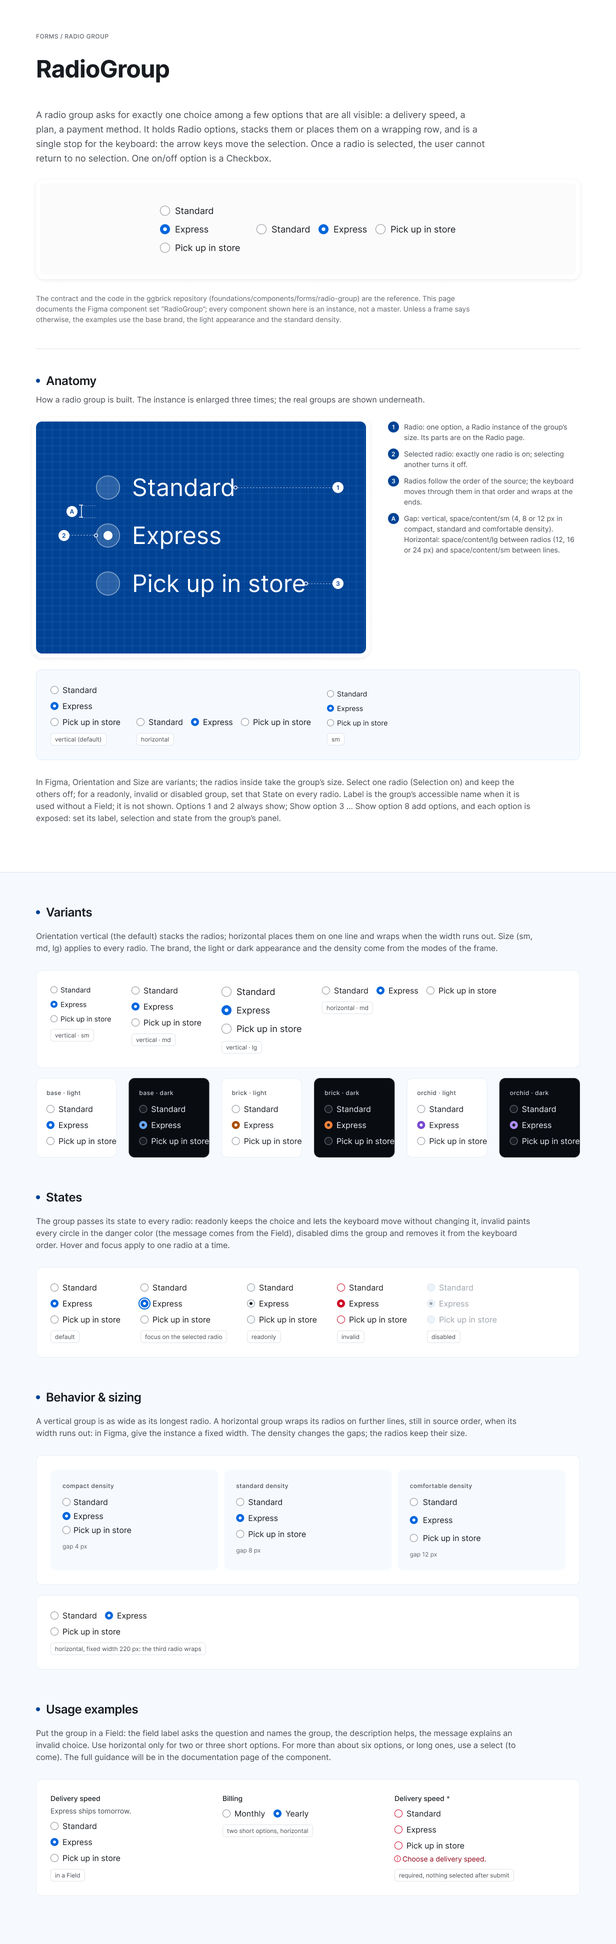
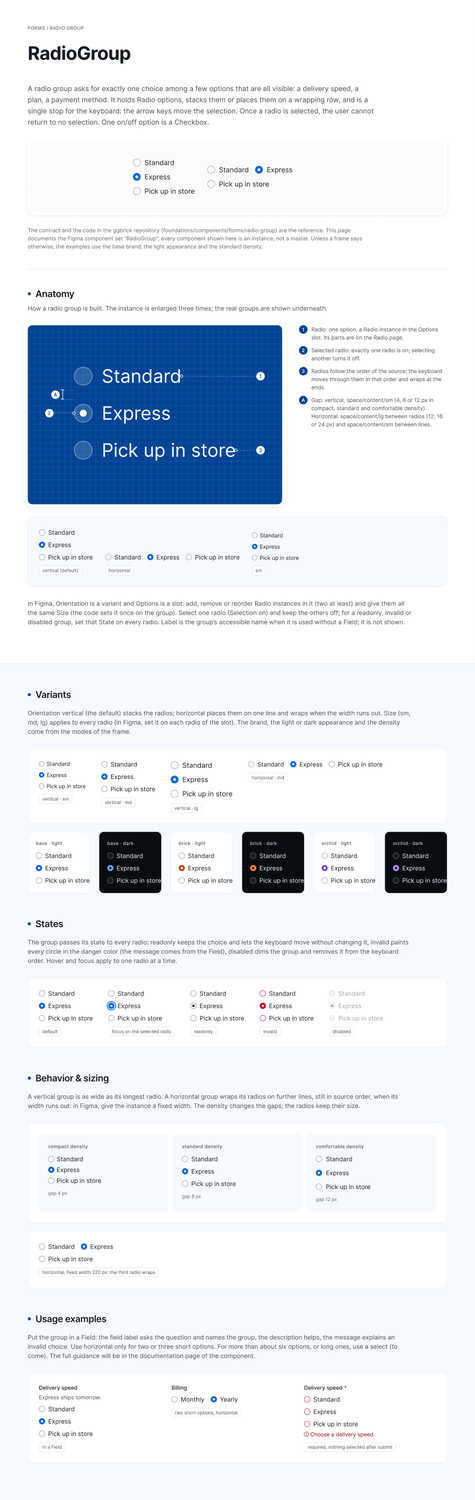
Figma: RadioGroup options in a slot
The eight hidden options were not approved. Each variant now holds an
Options slot (one SLOT property, two radios at least, Radio only) that
carries the layout and gap bindings; Size leaves the group because a
slot cannot pass it to its content. All 30 instances refilled,
specification page rebuilt, parity re-measured (36 records, 0 failures).

Claude-Session: https://claude.ai/code/session_01AzyApFChs2AgUq6EwCQmCx

diff --git a/authoring/adapters/figma/radio-group-slot.plugin.js b/authoring/adapters/figma/radio-group-slot.plugin.js
@@ -1,0 +1,173 @@
+// RadioGroup options in a Figma slot (use_figma body), 2026-10-28.
+// User review: the eight hidden options of radio-group-options.plugin.js were not approved ("trop saturé
+// d'options"); the options go in a Figma slot so designers add, remove and reorder Radio instances freely.
+// - Every instance of the set (292:327) on the forms pages is recorded first: its shown options (main component
+//   and property values, layers named Option N or Radio N).
+// - A slot cannot pass the group's size to the radios dropped into it, so Size leaves the group: instances of the
+//   sm and lg variants are swapped to md (their recorded radios keep their size), then sm and lg are removed and
+//   the two remaining variants are named by Orientation only.
+// - Each variant holds a slot "Options" (one SLOT property shared by both variants): vertical stacks with
+//   space/content/sm, horizontal wraps with space/content/lg and space/content/sm (the variant's fixed width sets
+//   where it wraps; resize an instance to change it). Default content: three Radio md. Settings: at least two
+//   children, Radio preferred and the only allowed content. The Show option booleans are deleted.
+// - Every recorded instance gets its options back in its slot.
+// Runs once on the eight-option structure; rerunning on the slot structure only refreshes settings and layout.
+figma.skipInvisibleInstanceChildren = false;
+const set = await figma.getNodeByIdAsync('292:327');
+const radio = await figma.getNodeByIdAsync('290:257');
+const PAGES = ['288:3', '288:4', '288:5', '288:6', '288:7', '288:8', '288:9'];
+const vars = await figma.variables.getLocalVariablesAsync();
+const V = (id) => vars.find((x) => x.id === id);
+const out = { recorded: 0, swapped: 0, filled: 0, failed: [] };
+
+// 1. Record the instances and their shown options.
+const recs = [];
+for (const pid of PAGES) {
+  const page = await figma.getNodeByIdAsync(pid);
+  await page.loadAsync();
+  for (const inst of page.findAllWithCriteria({ types: ['INSTANCE'] })) {
+    let main = null;
+    try {
+      main = await inst.getMainComponentAsync();
+    } catch (e) {
+      continue;
+    }
+    if (!main || main.parent !== set) continue;
+    const options = [];
+    for (const o of inst.children.filter(
+      (n) => n.type === 'INSTANCE' && n.visible && /^(Option|Radio) \d$/.test(n.name)
+    )) {
+      const m = await o.getMainComponentAsync();
+      const props = {};
+      for (const [k, p] of Object.entries(o.componentProperties)) if (p.type !== 'VARIANT') props[k] = p.value;
+      options.push([m.id, props]);
+    }
+    recs.push({ id: inst.id, main, options, sizing: inst.layoutSizingHorizontal, width: inst.width });
+  }
+}
+out.recorded = recs.length;
+const already = set.children.length === 2;
+
+if (!already) {
+  const md = (o) => set.children.find((v) => v.name === `Orientation=${o}, Size=md`);
+  // 2. Swap sm and lg instances to md, then remove sm and lg.
+  for (const r of recs) {
+    if (r.main.name.includes('Size=md')) continue;
+    const inst = await figma.getNodeByIdAsync(r.id);
+    inst.swapComponent(md(r.main.name.match(/Orientation=(\w+)/)[1]));
+    out.swapped++;
+  }
+  for (const v of [...set.children]) if (!v.name.includes('Size=md')) v.remove();
+  // 3. Slot in each variant; options 1–3 move into it, 4–8 go.
+  const slotKeys = [];
+  for (const v of [...set.children]) {
+    const opts = v.children.filter((n) => n.type === 'INSTANCE');
+    const slot = v.createSlot();
+    slot.name = 'Options';
+    slot.fills = [];
+    slot.clipsContent = false;
+    slot.layoutMode = v.layoutMode;
+    slot.layoutWrap = v.layoutWrap;
+    slot.primaryAxisSizingMode = 'AUTO';
+    slot.counterAxisSizingMode = 'AUTO';
+    slot.itemSpacing = v.itemSpacing;
+    slot.setBoundVariable('itemSpacing', V(v.boundVariables.itemSpacing.id));
+    if (v.boundVariables.counterAxisSpacing) {
+      slot.counterAxisSpacing = v.counterAxisSpacing;
+      slot.setBoundVariable('counterAxisSpacing', V(v.boundVariables.counterAxisSpacing.id));
+    }
+    opts.forEach((o, k) => {
+      o.componentPropertyReferences = {};
+      if (k < 3) {
+        o.visible = true;
+        o.isExposedInstance = false;
+        o.name = `Radio ${k + 1}`;
+        slot.appendChild(o);
+      } else o.remove();
+    });
+    const horizontal = v.layoutMode === 'HORIZONTAL';
+    const width = v.width;
+    v.setBoundVariable('itemSpacing', null);
+    if (v.boundVariables.counterAxisSpacing) v.setBoundVariable('counterAxisSpacing', null);
+    v.layoutWrap = 'NO_WRAP';
+    v.layoutMode = 'VERTICAL';
+    v.itemSpacing = 0;
+    v.insertChild(0, slot);
+    if (horizontal) {
+      v.counterAxisSizingMode = 'FIXED';
+      v.resize(width, v.height);
+      v.primaryAxisSizingMode = 'AUTO';
+      slot.layoutSizingHorizontal = 'FILL';
+    }
+    slotKeys.push(slot.componentPropertyReferences.slotContentId);
+    v.name = `Orientation=${horizontal ? 'horizontal' : 'vertical'}`;
+  }
+  // One SLOT property for both variants.
+  const [key, other] = slotKeys;
+  if (other && other !== key) {
+    const s = set.children[1].findChild((n) => n.type === 'SLOT');
+    s.componentPropertyReferences = { slotContentId: key };
+    if (set.componentPropertyDefinitions[other]) set.deleteComponentProperty(other);
+  }
+  for (const k of Object.keys(set.componentPropertyDefinitions))
+    if (k.startsWith('Show option')) set.deleteComponentProperty(k);
+}
+const slotKey = Object.keys(set.componentPropertyDefinitions).find(
+  (k) => set.componentPropertyDefinitions[k].type === 'SLOT'
+);
+set.editComponentProperty(slotKey, {
+  name: 'Options',
+  description:
+    'The radios of the group, in order. Add, remove or reorder Radio instances (two at least) and give them all the same Size: the code sets the size once on the group.',
+  preferredValues: [{ type: 'COMPONENT_SET', key: radio.key }],
+  slotSettings: { minChildren: 2, allowPreferredValuesOnly: true }
+});
+
+// 4. Give every recorded instance its options back.
+if (!already)
+  for (const r of recs) {
+    try {
+      const inst = await figma.getNodeByIdAsync(r.id);
+      const slot = inst.findAllWithCriteria({ types: ['SLOT'] })[0];
+      for (const c of [...slot.children]) c.remove();
+      for (const [mid, props] of r.options) {
+        const m = await figma.getNodeByIdAsync(mid);
+        const ri = m.createInstance();
+        ri.setProperties(props);
+        slot.appendChild(ri);
+      }
+      if (r.sizing === 'FIXED') inst.resize(r.width, inst.height);
+      out.filled++;
+    } catch (e) {
+      out.failed.push(`${r.id}: ${e}`);
+    }
+  }
+
+set.description = set.description
+  .replace(
+    /Orientation and Size mirror the code \(default vertical · md\); the radios inside take the group’s size\./,
+    'Orientation mirrors the code (default vertical). Size is set on every Radio (the code sets it once on the group).'
+  )
+  .replace(
+    /Options 1 and 2 always show;.*$/,
+    'Options is a slot: add, remove or reorder Radio instances (two at least) and set their Label, Description, Selection and State on each one.'
+  );
+// Layout: the two variants side by side.
+let x = 32;
+for (const v of set.children) {
+  v.x = x;
+  v.y = 32;
+  x += v.width + 48;
+}
+set.resizeWithoutConstraints(x - 48 + 32, Math.max(...set.children.map((v) => v.height)) + 64);
+out.variants = set.children.map((v) => [v.id, v.name, Math.round(v.width), Math.round(v.height)]);
+out.props = Object.entries(set.componentPropertyDefinitions).map(([k, d]) => [k, d.type]);
+out.slots = set.children.map((v) => v.findChild((n) => n.type === 'SLOT').id);
+out.violations = [];
+for (const r of recs) {
+  const inst = await figma.getNodeByIdAsync(r.id);
+  const s = inst && inst.findAllWithCriteria({ types: ['SLOT'] })[0];
+  if (!s || s.limitViolations.length || s.children.length !== r.options.length)
+    out.violations.push([r.id, s ? s.children.length : null, s ? s.limitViolations : 'no slot']);
+}
+return out;

diff --git a/authoring/adapters/figma/forms-spec.plugin.js b/authoring/adapters/figma/forms-spec.plugin.js
@@ -314,9 +314,9 @@ const swapControl = (field, id, v = {}, p = {}) => {
   );
   return setProps(ctl, p);
 };
-// Set properties on every radio of a RadioGroup instance.
+// Set properties on every radio of a RadioGroup instance (the Radio instances in its Options slot).
 const radios = (group, p) => {
-  for (const r of group.children.filter((n) => n.type === 'INSTANCE' && /^Option \d$/.test(n.name))) setProps(r, p);
+  for (const r of group.findAllWithCriteria({ types: ['SLOT'] })[0].children) setProps(r, p);
   return group;
 };
 const surface = (name, dir = 'VERTICAL', gap = 12, pad = 20) => {
@@ -391,7 +391,7 @@ const drawBoard = async (A) => {
   dg.appendChild(inst);
   inst.x = Math.round((W - inst.width) / 2 - (A.shift || 0));
   inst.y = 96;
-  // A layer by name, or a path “Option 2/Control”; '' is the instance.
+  // A layer by name, or a path “Radio 2/Control”; '' is the instance.
   const node = (name) =>
     name
       .split('/')
@@ -694,13 +694,13 @@ ANATOMY['radio-group'] = () => {
     zoom: 3,
     instance: () => rg(),
     pins: [
-      [1, 'Option 1', 'right', 0],
-      [2, 'Option 2/Control', 'left', 0],
-      [3, 'Option 3', 'right', 0]
+      [1, 'Radio 1', 'right', 0],
+      [2, 'Radio 2/Control', 'left', 0],
+      [3, 'Radio 3', 'right', 0]
     ],
-    dims: [{ k: 'y', a: ['Option 1', 'b'], b: ['Option 2', 't'], c: 'A', side: 'left' }],
+    dims: [{ k: 'y', a: ['Radio 1', 'b'], b: ['Radio 2', 't'], c: 'A', side: 'left' }],
     legend: [
-      ['1', 'Radio: one option, a Radio instance of the group’s size. Its parts are on the Radio page.'],
+      ['1', 'Radio: one option, a Radio instance in the Options slot. Its parts are on the Radio page.'],
       ['2', 'Selected radio: exactly one radio is on; selecting another turns it off.'],
       [
         '3',
@@ -714,10 +714,10 @@ ANATOMY['radio-group'] = () => {
     real: () => [
       [rg(), 'vertical (default)'],
       [rg({ Orientation: 'horizontal' }), 'horizontal'],
-      [rg({ Size: 'sm' }), 'sm']
+      [radios(rg(), { Size: 'sm' }), 'sm']
     ],
     figma:
-      'In Figma, Orientation and Size are variants; the radios inside take the group’s size. Select one radio (Selection on) and keep the others off; for a readonly, invalid or disabled group, set that State on every radio. Label is the group’s accessible name when it is used without a Field; it is not shown. Options 1 and 2 always show; Show option 3 … Show option 8 add options, and each option is exposed: set its label, selection and state from the group’s panel.'
+      'In Figma, Orientation is a variant and Options is a slot: add, remove or reorder Radio instances in it (two at least) and give them all the same Size (the code sets it once on the group). Select one radio (Selection on) and keep the others off; for a readonly, invalid or disabled group, set that State on every radio. Label is the group’s accessible name when it is used without a Field; it is not shown.'
   };
 };
 // </anatomy:radio-group>
@@ -1196,16 +1196,16 @@ SPECS['radio-group'] = () => {
     path: 'FORMS / RADIO GROUP',
     intro:
       'A radio group asks for exactly one choice among a few options that are all visible: a delivery speed, a plan, a payment method. It holds Radio options, stacks them or places them on a wrapping row, and is a single stop for the keyboard: the arrow keys move the selection. Once a radio is selected, the user cannot return to no selection. One on/off option is a Checkbox.',
-    hero: () => [rg({ Size: 'lg' }), rg({ Orientation: 'horizontal', Size: 'lg' })],
+    hero: () => [radios(rg(), { Size: 'lg' }), radios(rg({ Orientation: 'horizontal' }), { Size: 'lg' })],
     anatomy: ANATOMY['radio-group'](),
     sections: [
       [
         'Variants',
-        'Orientation vertical (the default) stacks the radios; horizontal places them on one line and wraps when the width runs out. Size (sm, md, lg) applies to every radio. The brand, the light or dark appearance and the density come from the modes of the frame.',
+        'Orientation vertical (the default) stacks the radios; horizontal places them on one line and wraps when the width runs out. Size (sm, md, lg) applies to every radio (in Figma, set it on each radio of the slot). The brand, the light or dark appearance and the density come from the modes of the frame.',
         (c) => {
           const r = card('Orientation and size', 'HORIZONTAL', 40);
           r.counterAxisAlignItems = 'MIN';
-          for (const s of ['sm', 'md', 'lg']) r.appendChild(caption(rg({ Size: s }), `vertical · ${s}`));
+          for (const s of ['sm', 'md', 'lg']) r.appendChild(caption(radios(rg(), { Size: s }), `vertical · ${s}`));
           r.appendChild(caption(rg({ Orientation: 'horizontal' }), 'horizontal · md'));
           c.appendChild(r);
           r.layoutSizingHorizontal = 'FILL';
@@ -1221,7 +1221,7 @@ SPECS['radio-group'] = () => {
           r.appendChild(caption(rg(), 'default'));
           const f = rg();
           setProps(
-            f.findOne((n) => n.name === 'Option 2'),
+            f.findOne((n) => n.name === 'Radio 2'),
             { Focus: true }
           );
           r.appendChild(caption(f, 'focus on the selected radio'));
@@ -1261,17 +1261,14 @@ SPECS['radio-group'] = () => {
           const f2 = mk('field', {}, { Label: 'Billing', 'Show description': false });
           const g2 = swapControl(f2, 'radio-group', { Orientation: 'horizontal' });
           setProps(
-            g2.findOne((n) => n.name === 'Option 1'),
+            g2.findOne((n) => n.name === 'Radio 1'),
             { Label: 'Monthly' }
           );
           setProps(
-            g2.findOne((n) => n.name === 'Option 2'),
+            g2.findOne((n) => n.name === 'Radio 2'),
             { Label: 'Yearly' }
           );
-          setProps(
-            f2.findOne((n) => n.name === 'Control'),
-            { 'Show option 3': false }
-          );
+          g2.findOne((n) => n.name === 'Radio 3').remove();
           ex.appendChild(caption(f2, 'two short options, horizontal'));
           const f3 = mk(
             'field',

diff --git a/authoring/adapters/figma/forms-parity.plugin.js b/authoring/adapters/figma/forms-parity.plugin.js
@@ -134,7 +134,7 @@ if (ID === 'checkbox' || ID === 'radio' || ID === 'switch') {
     { rep: true }
   );
 } else if (ID === 'radio-group') {
-  for (const o of ['horizontal', 'vertical']) add({ orientation: o }, 'default', `Orientation=${o}, Size=md`);
+  for (const o of ['horizontal', 'vertical']) add({ orientation: o }, 'default', `Orientation=${o}`);
 } else if (ID === 'input-text') {
   const v = (s, content, st) => `Size=${s}, Action=none, Content=${content}, State=${st}`;
   // Sizes beside Buttons: leading magnifying glass, placeholder; then the empty inputs of the conditions.
@@ -262,10 +262,12 @@ const measure = async (inst, c, valueInst) => {
     };
   }
   if (ID === 'radio-group') {
+    // The gaps belong to the Options slot (2026-10-28).
+    const box = inst.findAllWithCriteria({ types: ['SLOT'] })[0];
     const gap =
-      inst.layoutMode === 'HORIZONTAL'
-        ? `${await res(inst, 'counterAxisSpacing')} ${await res(inst, 'itemSpacing')}`
-        : `${await res(inst, 'itemSpacing')}`;
+      box.layoutMode === 'HORIZONTAL'
+        ? `${await res(box, 'counterAxisSpacing')} ${await res(box, 'itemSpacing')}`
+        : `${await res(box, 'itemSpacing')}`;
     return { exact: [gap], num: [] };
   }
   if (ID === 'input-text' || ID === 'textarea') {

diff --git a/authoring/adapters/figma/radio-group-options.plugin.js b/authoring/adapters/figma/radio-group-options.plugin.js
@@ -1,3 +1,4 @@
+// SUPERSEDED on 2026-10-28 by radio-group-slot.plugin.js (the user did not approve hidden options): do not run.
 // RadioGroup options as properties (use_figma body), 2026-10-28.
 // User review of the Figma parity gate: designers should add options to a RadioGroup without detaching it
 // (an instance cannot receive new layers). Every variant of the set (292:327) now holds eight Radio instances,

diff --git a/foundations/components/forms/radio-group/figma-spec.md b/foundations/components/forms/radio-group/figma-spec.md
@@ -3,28 +3,30 @@
 ## Overview
 
 - File: [GG.Bricks — Design system](https://www.figma.com/design/TDPqojP4KvbWJlKSYc4zKC/GG.Bricks---Design-system), page **forms/radio-group** (`288:7`); it holds the master and this specification.
-- Master: component set **RadioGroup** ([`292:327`](https://www.figma.com/design/TDPqojP4KvbWJlKSYc4zKC/GG.Bricks---Design-system?node-id=292-327)), 6 variants, built by `authoring/adapters/figma/radio-group-master.plugin.js`.
-- Specification frame: **RadioGroup — Specification** ([`305:780`](https://www.figma.com/design/TDPqojP4KvbWJlKSYc4zKC/GG.Bricks---Design-system?node-id=305-780)) with Overview, Anatomy, Variants, States, Behavior & sizing and Usage examples, in plain sentences for designers; built by `authoring/adapters/figma/forms-spec.plugin.js`. Its instances are explanatory, never masters.
+- Master: component set **RadioGroup** ([`292:327`](https://www.figma.com/design/TDPqojP4KvbWJlKSYc4zKC/GG.Bricks---Design-system?node-id=292-327)), 2 variants and an **Options** slot, built by `authoring/adapters/figma/radio-group-master.plugin.js` then `radio-group-slot.plugin.js`.
+- Specification frame: **RadioGroup — Specification** ([`338:844`](https://www.figma.com/design/TDPqojP4KvbWJlKSYc4zKC/GG.Bricks---Design-system?node-id=338-844)) with Overview, Anatomy, Variants, States, Behavior & sizing and Usage examples, in plain sentences for designers; built by `authoring/adapters/figma/forms-spec.plugin.js`. Its instances are explanatory, never masters.
 - Reproduces: contract `foundations/components/forms/radio-group/contract.json` (sha256 `3bff76a8…`, approved 2026-10-26) and the implementation approved on 2026-10-27 (`packages/svelte/src/components/radio-group`).
 - Node and variable IDs: `reports/components/radio-group/figma/ledger.json`. Parity: `reports/components/radio-group/figma/parity.json` (36 records, 0 failures). Screenshots: `reports/components/radio-group/figma/master-set.png`, `specification.png`, `blueprint-anatomy.png`.
 - The library is not published (publication needs explicit authorization).
 
 ## Mapping from the contract
 
-| Contract                          | Figma                                                                                                                                                                                                                                                             |
-| --------------------------------- | ----------------------------------------------------------------------------------------------------------------------------------------------------------------------------------------------------------------------------------------------------------------- |
-| `orientation`, `size`             | Variant properties Orientation (vertical, horizontal), Size (md, sm, lg); default vertical · md                                                                                                                                                                   |
-| `label` (when no Field)           | Text property **Label** on a hidden text layer (accessible name, not shown)                                                                                                                                                                                       |
-| `value`                           | The selected radio: Selection on on one Radio instance                                                                                                                                                                                                            |
-| `readonly`, `invalid`, `disabled` | The State of every Radio instance (set by the designer; the code passes them)                                                                                                                                                                                     |
-| `radios` (slot)                   | Eight exposed Radio instances (`290:257`), Option 1 to Option 8: options 1 and 2 always show, booleans **Show option 3** … **Show option 8** show the others (3 by default); each option’s Label, Description, Selection and State are set from the group’s panel |
+| Contract                          | Figma                                                                                                                                                                                                                                                                        |
+| --------------------------------- | ---------------------------------------------------------------------------------------------------------------------------------------------------------------------------------------------------------------------------------------------------------------------------- |
+| `orientation`                     | Variant property Orientation (vertical, horizontal); default vertical                                                                                                                                                                                                        |
+| `size`                            | The Size of each Radio in the slot (the designer sets the same size on all of them; a slot cannot pass the group's size to its content)                                                                                                                                      |
+| `label` (when no Field)           | Text property **Label** on a hidden text layer (accessible name, not shown)                                                                                                                                                                                                  |
+| `value`                           | The selected radio: Selection on on one Radio instance                                                                                                                                                                                                                       |
+| `readonly`, `invalid`, `disabled` | The State of every Radio instance (set by the designer; the code passes them)                                                                                                                                                                                                |
+| `radios` (slot)                   | SLOT property **Options** on the layer Options (one slot shared by both variants): Radio instances (`290:257`) added, removed and reordered by the designer; at least two, Radio the preferred and only allowed content; default content three Radio md, the second selected |
 
 Every color, dimension, radius, stroke and typography value of the masters is bound to a variable of the Brand, Appearance and Density collections or to an adapter variable of the hidden **Components** collection; brand, appearance and density are chosen by the consuming frame's variable modes.
 
 ## Construction notes
 
-- Vertical: auto layout, gap `space/content/sm`. Horizontal: wrapping auto layout, gap `space/content/lg` between radios and `space/content/sm` between lines, as the code's flex wrap.
-- The options are exposed instances of Radio in the group's size (Option 2 selected, State default); an instance cannot receive new layers, so the eight options are built in and shown by property (2026-10-28). Overrides of an option (selection, label) survive a change of the group's Size or Orientation.
+- The variant is a vertical auto layout holding the slot **Options** and the hidden Label layer. The slot carries the layout: vertical, gap `space/content/sm`; horizontal, wrapping, gap `space/content/lg` between radios and `space/content/sm` between lines, as the code's flex wrap. The horizontal variant has a fixed width (349 px, one line for the default content) and the slot fills it: resize an instance to change where it wraps.
+- Slot settings: `minChildren` 2, preferred value the Radio set, `allowPreferredValuesOnly` (Figma flags other content). The content of an instance's slot is kept when its Orientation changes (checked on 2026-10-28).
+- Superseded on 2026-10-28: the eight exposed options with Show option booleans (`radio-group-options.plugin.js`), not approved by the user (too many options).
 
 ## Justified differences
 
@@ -32,6 +34,7 @@ Recorded as such in `parity.json`; none hides a defect of the master.
 
 1. **Keyboard and selection rules** (single focus stop, arrows, no return to none) are behaviors of the code; Figma shows the resulting state only.
 2. **Group state** is not a variant: the designer sets readonly, invalid or disabled on each radio (the page shows how).
+3. **Group size** is not on the group: a slot cannot pass it to its content, so the designer sets the same Size on each radio. Parity is unaffected (the group's computed values are its gaps).
 
 ## Page style and diagrams
 

diff --git a/authoring/adapters/figma/README.md b/authoring/adapters/figma/README.md
@@ -109,5 +109,6 @@ The Plugin API script bodies inherited from the reference kit were removed after
 - Anatomy boards draw the enlarged instance in the blueprint ink (`inkDrawing` in `forms-spec.plugin.js`): fills become `wireframe/tint/16`, strokes `wireframe/tint/48` at 1.5 px, text and glyphs `wireframe/ink`, transparent paints stay empty (their alpha is read from the bound variable). Leaders are always straight. `ANATOMY_ONLY = true` redraws only the boards of existing specification frames.
 - `strokesIncludedInLayout` can be set only on auto-layout frames; text layers set to `HUG` in a drawing end at their last word, where a side pin can land.
 - `field-focus-migrate.plugin.js`: Focus is a property only on InputText and Textarea (State=focus removed); the code's focus border is a “Focus border” layer shown by Focus on the default and hover variants. Frames that hold a focusable control (Field's Header, Label row, Body) must not clip, or the ring outside the control disappears. `createAutoLayout` clips by default.
-- `radio-group-options.plugin.js`: an instance cannot receive new layers, so a group holds its maximum number of options (eight exposed Radio instances) and shows them with booleans (Show option 3 … 8). Overrides of an exposed option survive a variant change of the group. CheckboxGroup will follow the same pattern.
+- `radio-group-options.plugin.js` (superseded the same day, not approved): eight exposed options shown with booleans. Do not run it.
+- `radio-group-slot.plugin.js`: Figma slots. `component.createSlot()` on each variant creates a SlotNode and a SLOT property; slots of the same name in the variants of a set share one property (bind a second slot with `componentPropertyReferences = { slotContentId: key }`). Settings (`minChildren`, `preferredValues` with the component set key, `allowPreferredValuesOnly`) go through `set.editComponentProperty`. In an instance, fill a slot by appending instances to the SlotNode (`setProperties` cannot set a SLOT); this works in nested instances too. The content of an instance's slot survives a variant change, and the layout follows the variant. A slot cannot pass a property of the group (Size) to its content: set it on each child. Groups (RadioGroup, CheckboxGroup) use a slot for their options.
 - Swapping instances found with `findAllWithCriteria` must skip instance sublayers (ids starting with `I`) and read the main component with `getMainComponentAsync` (the synchronous getter throws on some nested instances).
